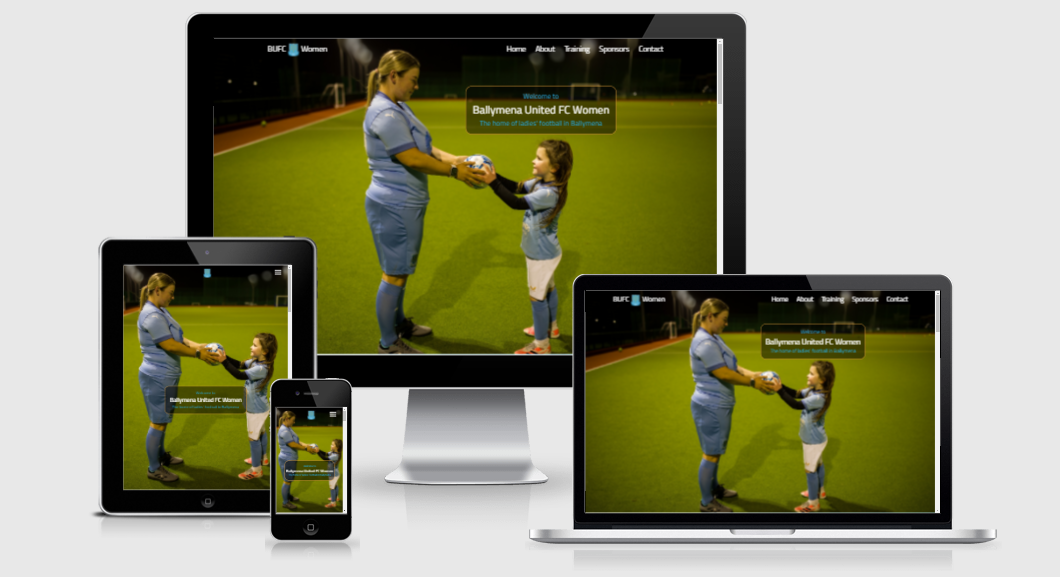
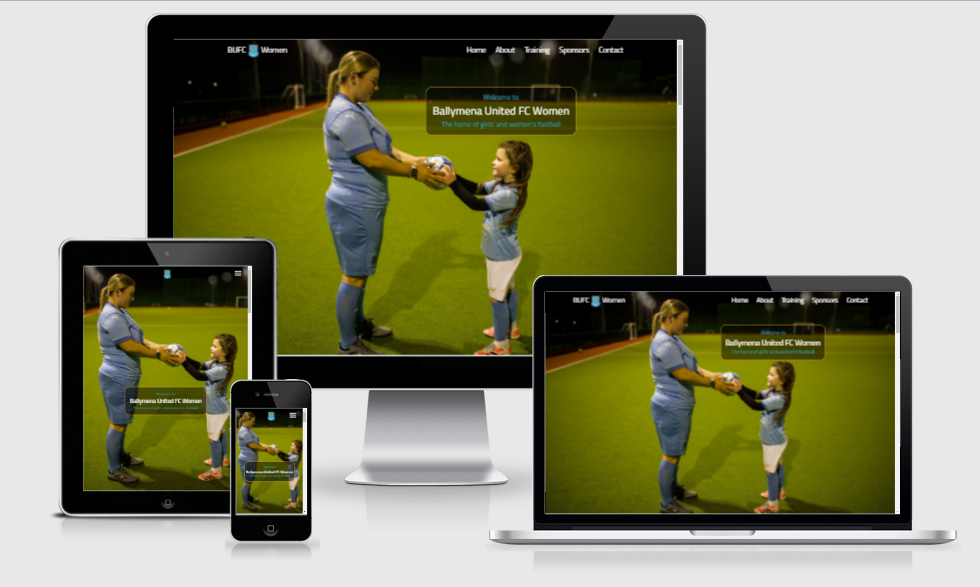
Change README hero image & add caption

Changed region(s): [[0.0612, 0.0, 0.9796, 0.9671]]

diff --git a/readme.md b/readme.md
@@ -1,5 +1,7 @@
 # **Ballymena United FC Women**
 
+*Welcome to* **Ballymena United FC Women**, *the home of girls' and women's football*
+
 ![Ballymena United FC Women Website Display](https://github.com/RaVeR76/bufcwoman/raw/main/docs/screenshots/readme-hero.png)
 
 ## **Goal for this project**
@@ -12,7 +14,6 @@ This is my first solo project after completing my studies so I want to develop t
 I want to make my home town womans football team proud and encourage the girls or women of all ages to sign up, develop their skills and most importantly .... play some football !!!
 
 I hope you enjoy this project :)
-
 
 ## Table of contents
 
